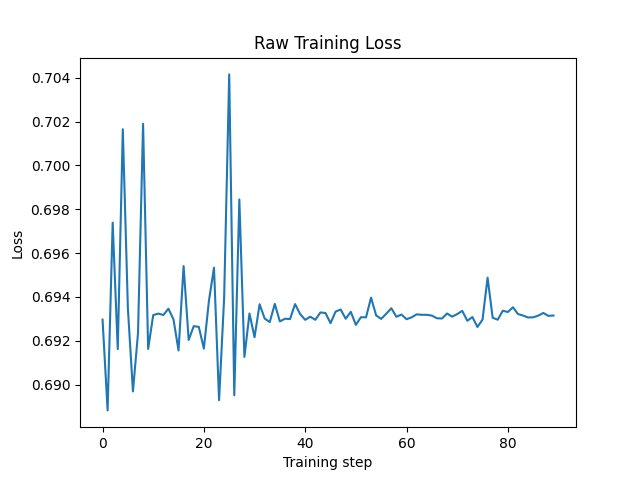
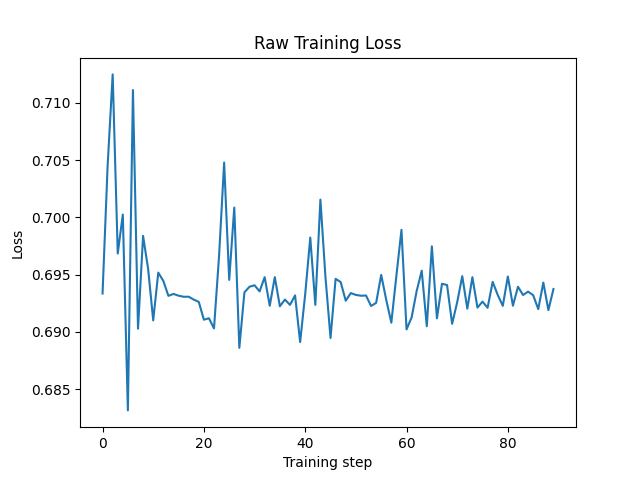
added regularization and f1 score

diff --git a/Software/PyTorch/code/cnn/train.py b/Software/PyTorch/code/cnn/train.py
@@ -17,7 +17,7 @@ EPOCHS = 10
 LEARNING_RATE = .001 #adjust?
 
 ANNOTATIONS_FILE = "/Users/saranorouzinia/Documents/Anomaly Sound Detection/AnomalySoundDetection/Software/Perch2.0/rapport_anomalies.csv"
-AUDIO_DIR = "/Users/saranorouzinia/Documents/Anomaly Sound Detection/AnomalySoundDetection/Software/PyTorch/audio"
+AUDIO_DIR = "/Users/saranorouzinia/Documents/Anomaly Sound Detection/audio"
 SAMPLE_RATE = 32000 #1 sec
 NUM_SAMPLES = 160000 #5 seconds
 
@@ -101,7 +101,8 @@ if __name__ == "__main__":
 
     loss_fn = nn.CrossEntropyLoss(weight=weights)
 
-    optimiser = torch.optim.Adam(cnn.parameters(), lr=LEARNING_RATE) #updates the model's weights to minimize loss
+    #regularizer applied : tweak value tho
+    optimiser = torch.optim.Adam(cnn.parameters(), lr=LEARNING_RATE, weight_decay=1e-5) #updates the model's weights to minimize loss
     all_epoch_losses = train(cnn, train_data_loader, loss_fn, optimiser, device, EPOCHS)
 
     torch.save(cnn.state_dict(), "cnnnet.pth") #storing the model

diff --git a/Software/PyTorch/code/cnn/inference.py b/Software/PyTorch/code/cnn/inference.py
@@ -100,6 +100,7 @@ if __name__ == "__main__":
     report = classification_report(targets, predictions, target_names=["RAS", "ANOMALIE"],output_dict=True,
     zero_division=0)
     df = pd.DataFrame(report).transpose()
+
     df.to_csv("classification_report.csv")
 
     cm = confusion_matrix(targets, predictions)